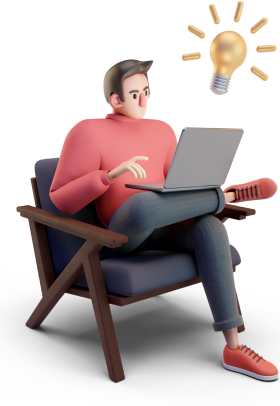
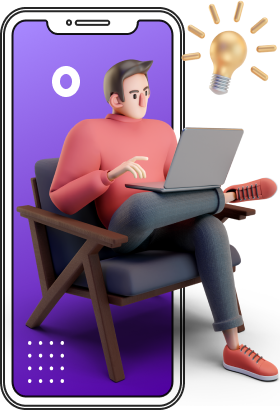
Add image to features.html and change photos in folder "features"

diff --git a/src/partials/features.html b/src/partials/features.html
@@ -6,6 +6,62 @@
       neque. In sit amet lectus non lacus sollicitudin cursus a vitae felis.
       Praesent luctus mi quis nisi interdum eleifend.
     </p>
+    <picture>
+      <source
+        media="(min-width: 1200px)"
+        srcset="
+          ./images/features/img_lg.webp    1x,
+          ./images/features/img_lg@2x.webp 2x
+        "
+        type="image/webp"
+      />
+      <source
+        media="(min-width: 1200px)"
+        srcset="
+          ./images/features/img_lg.png    1x,
+          ./images/features/img_lg@2x.png 2x
+        "
+        type="image/png"
+      />
+      <source
+        media="(min-width: 768px)"
+        srcset="
+          ./images/features/img_md.webp    1x,
+          ./images/features/img_md@2x.webp 2x
+        "
+        type="image/webp"
+      />
+      <source
+        media="(min-width: 768px)"
+        srcset="
+          ./images/features/img_md.png    1x,
+          ./images/features/img_md@2x.png 2x
+        "
+        type="image/png"
+      />
+      <source
+        media="(min-width: 480px)"
+        srcset="
+          ./images/features/img_sm.webp    1x,
+          ./images/features/img_sm@2x.webp 2x
+        "
+        type="image/webp"
+      />
+      <source
+        media="(min-width: 480px)"
+        srcset="
+          ./images/features/img_sm.png    1x,
+          ./images/features/img_sm@2x.png 2x
+        "
+        type="image/png"
+      />
+      <img
+        src="./images/features/img_sm.png"
+        alt="man at the laptop"
+        width="208"
+        height="406"
+      />
+    </picture>
     <ul class="features__list">
       <li class="features__item">
         <h2 class="features__item-title">Amet varius</h2>
